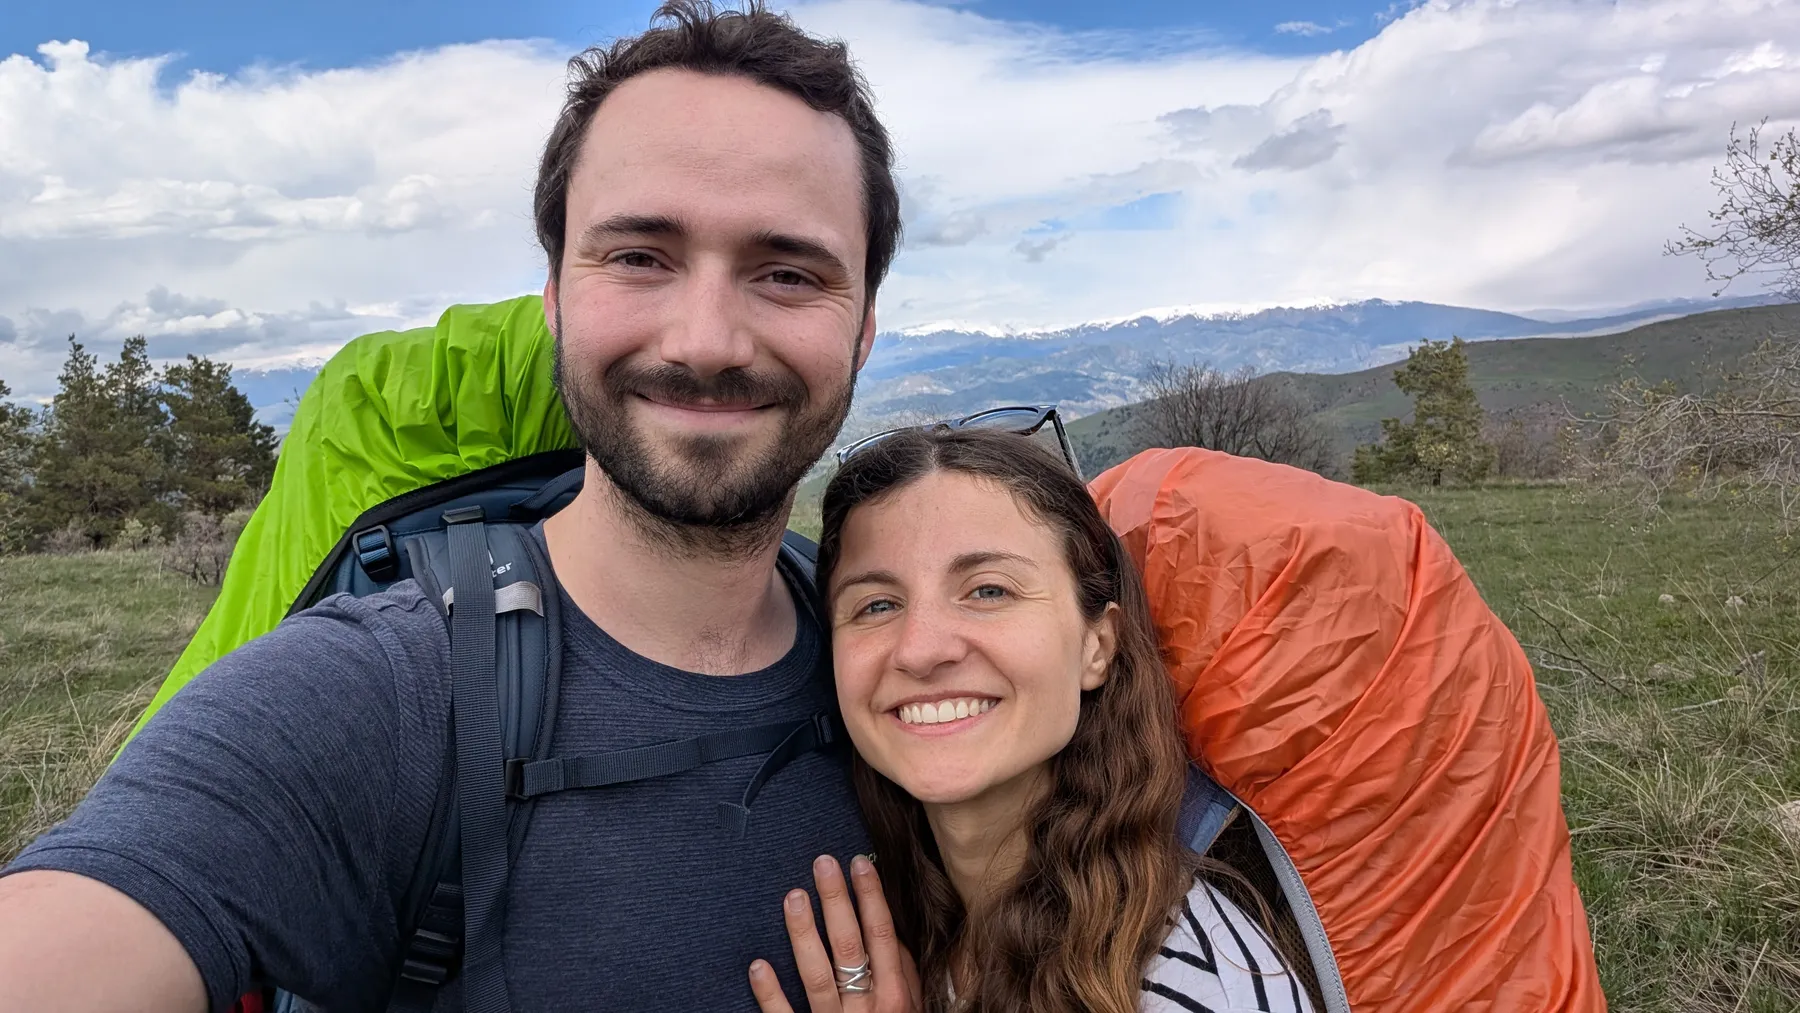
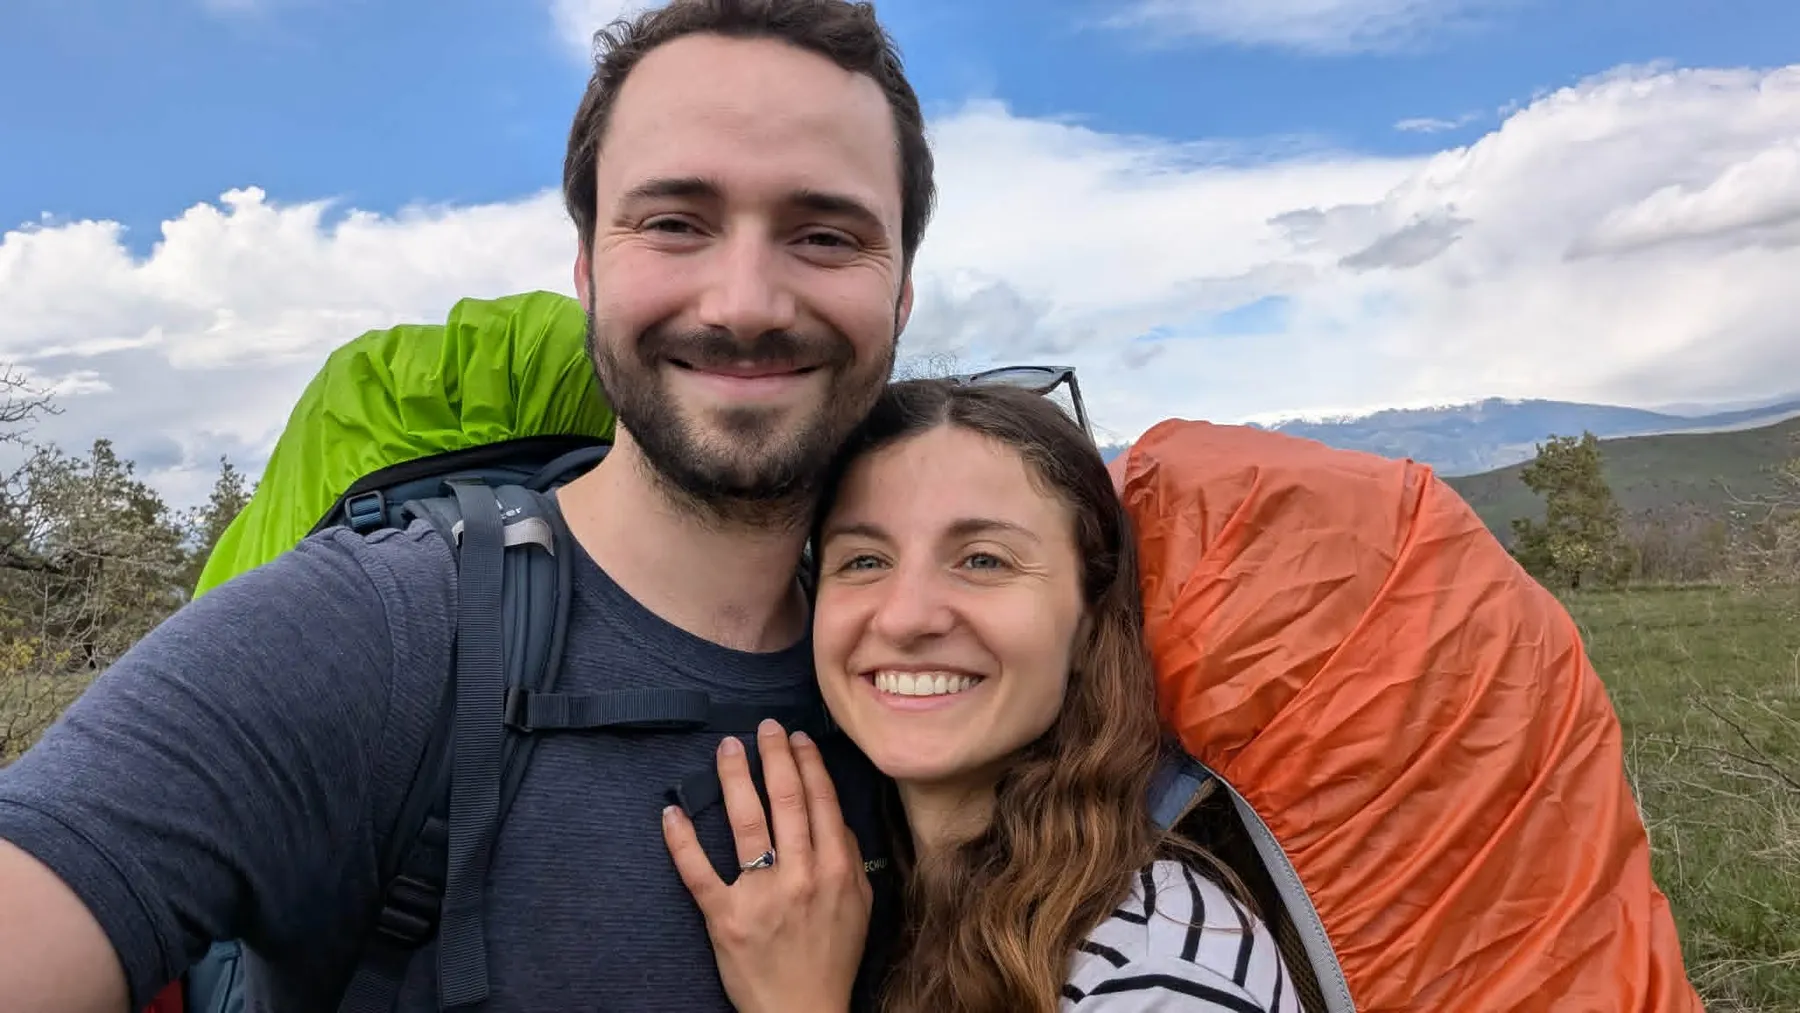
Remplace la photo finale et allege la mosaique sur mobile
La derniere photo pleine largeur devient le portrait des maries.

Supprime les legendes « A completer » des vignettes de la mosaique :
MosaicItem n'a jamais affiche `text`, c'etaient des donnees mortes.

Sur telephone, la grille passe a deux colonnes et la troisieme vignette
restait seule sur sa ligne : elle est desormais masquee via
`hideOnMobile`. Les deux photos pleine largeur debordent legerement de
la marge de page pour gagner en presence.

diff --git a/src/pages/StoryPage.jsx b/src/pages/StoryPage.jsx
@@ -94,6 +94,9 @@ function MosaicSection({ blocks, lang, isMobile }) {
     <div style={{ display: "flex", flexDirection: "column", gap: isMobile ? 12 : 16 }}>
       {blocks.map((block, i) => {
         if (block.type === "grid") {
+          // La grille passe à deux colonnes sur téléphone : une troisième
+          // vignette y resterait seule sur sa ligne, d'où `hideOnMobile`.
+          const items = isMobile ? block.items.filter((item) => !item.hideOnMobile) : block.items;
           return (
             <div
               key={i}
@@ -104,7 +107,7 @@ function MosaicSection({ blocks, lang, isMobile }) {
                 gap: isMobile ? 8 : 12,
               }}
             >
-              {block.items.map((item) => (
+              {items.map((item) => (
                 <MosaicItem key={item.photo} event={item} lang={lang} />
               ))}
             </div>
@@ -112,7 +115,19 @@ function MosaicSection({ blocks, lang, isMobile }) {
         }
         if (block.type === "full") {
           return (
-            <div key={i} style={{ width: "100%", borderRadius: 12, overflow: "hidden", aspectRatio: isMobile ? "4/3" : "3/2" }}>
+            <div
+              key={i}
+              style={{
+                // Sur téléphone, ces photos débordent un peu de la marge de la
+                // page pour gagner en présence.
+                width: isMobile ? "calc(100% + 24px)" : "100%",
+                marginLeft: isMobile ? -12 : 0,
+                marginRight: isMobile ? -12 : 0,
+                borderRadius: 12,
+                overflow: "hidden",
+                aspectRatio: isMobile ? "4/3" : "3/2",
+              }}
+            >
               <Photo src={block.item.photo} alt={localize(block.item.date, lang)} />
             </div>
           );

diff --git a/src/data/story.js b/src/data/story.js
@@ -32,9 +32,9 @@ const EVENTS = [
   { date: { fr: "Janvier 2026 - Venise", en: "January 2026 - Venice" }, photo: "/histoire-16.webp", text: { fr: "Découverte de la ville des amoureux ❤ 🇮🇹", en: "Discovering the city of love ❤ 🇮🇹" }, ratio: "3:4" },
 
   { type: "year", year: { fr: "Et après un fabuleux voyage en Arménie et en Géorgie...", en: "And after a fabulous trip to Armenia and Georgia..." }, mosaic: true },
-  { date: { fr: "Photo 1", en: "Photo 1" }, photo: "/histoire-17.webp", text: { fr: "À compléter ✍", en: "To be completed ✍" }, ratio: "3:4" },
-  { date: { fr: "Photo 2", en: "Photo 2" }, photo: "/histoire-18.webp", text: { fr: "À compléter ✍", en: "To be completed ✍" }, ratio: "3:4" },
-  { date: { fr: "Photo 3", en: "Photo 3" }, photo: "/histoire-19.webp", text: { fr: "À compléter ✍", en: "To be completed ✍" }, ratio: "3:4" },
+  { date: { fr: "Photo 1", en: "Photo 1" }, photo: "/histoire-17.webp", ratio: "3:4" },
+  { date: { fr: "Photo 2", en: "Photo 2" }, photo: "/histoire-18.webp", ratio: "3:4" },
+  { date: { fr: "Photo 3", en: "Photo 3" }, photo: "/histoire-19.webp", ratio: "3:4", hideOnMobile: true },
   { date: { fr: "Photo 4", en: "Photo 4" }, photo: "/histoire-20.webp", ratio: "3:4", fullWidth: true },
   { type: "text", text: { fr: "... ils se sont dit OUI", en: "... they said YES" } },
   { date: { fr: "Photo 5", en: "Photo 5" }, photo: "/histoire-21.webp", ratio: "3:4", fullWidth: true },
